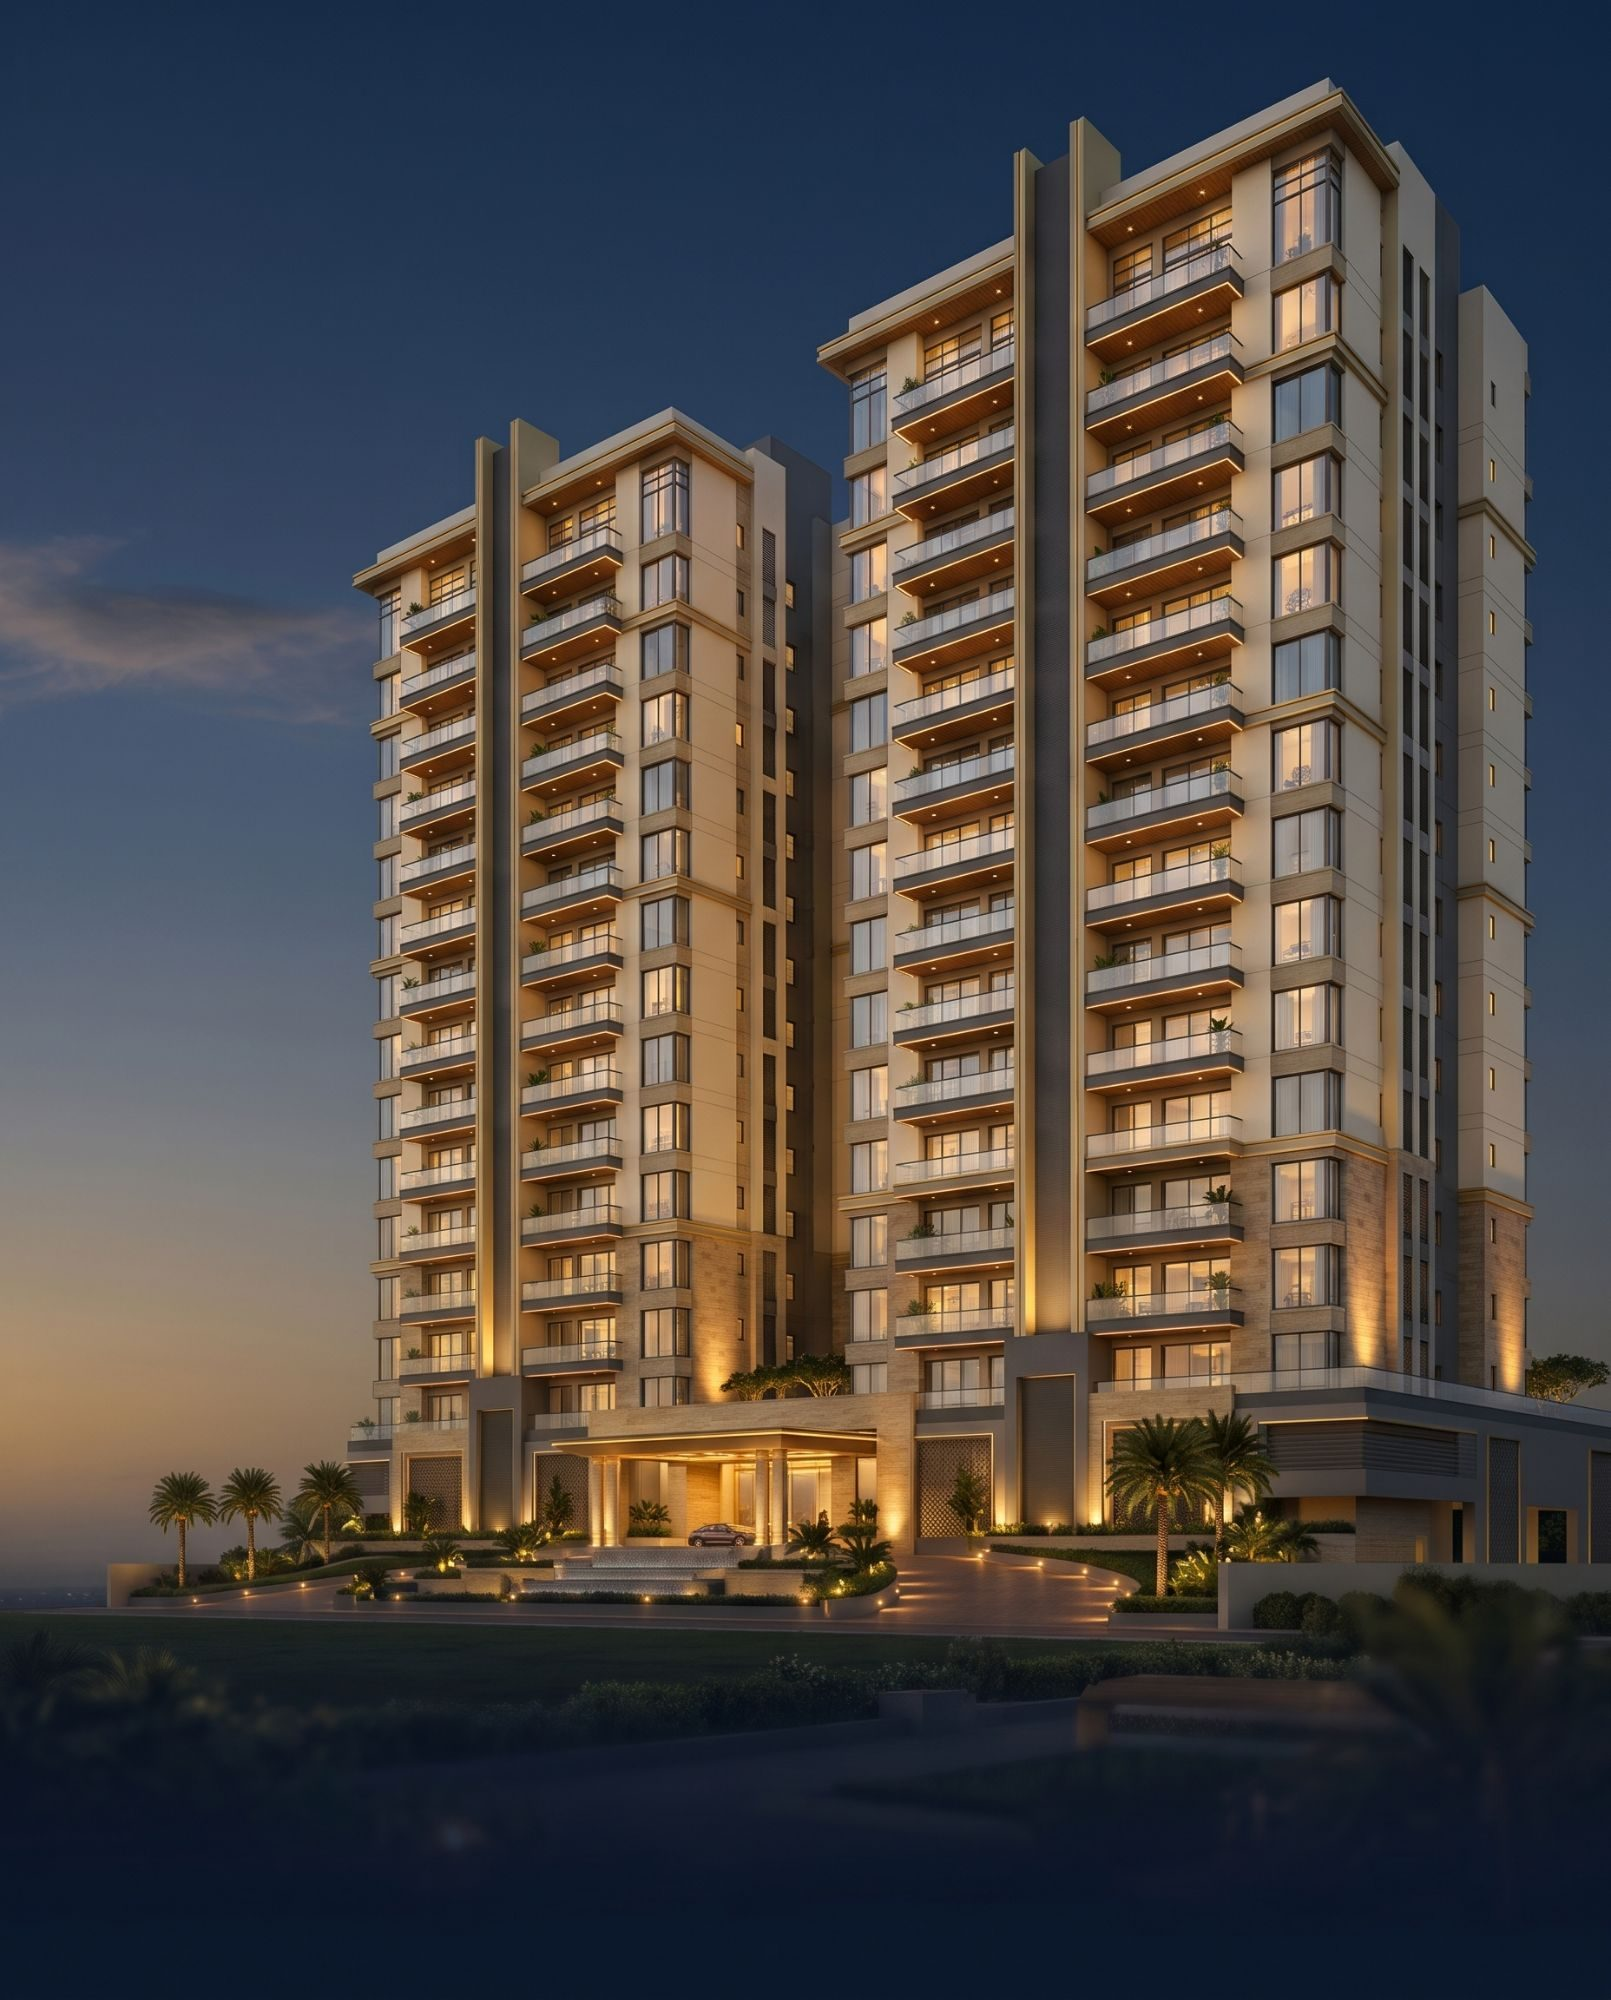
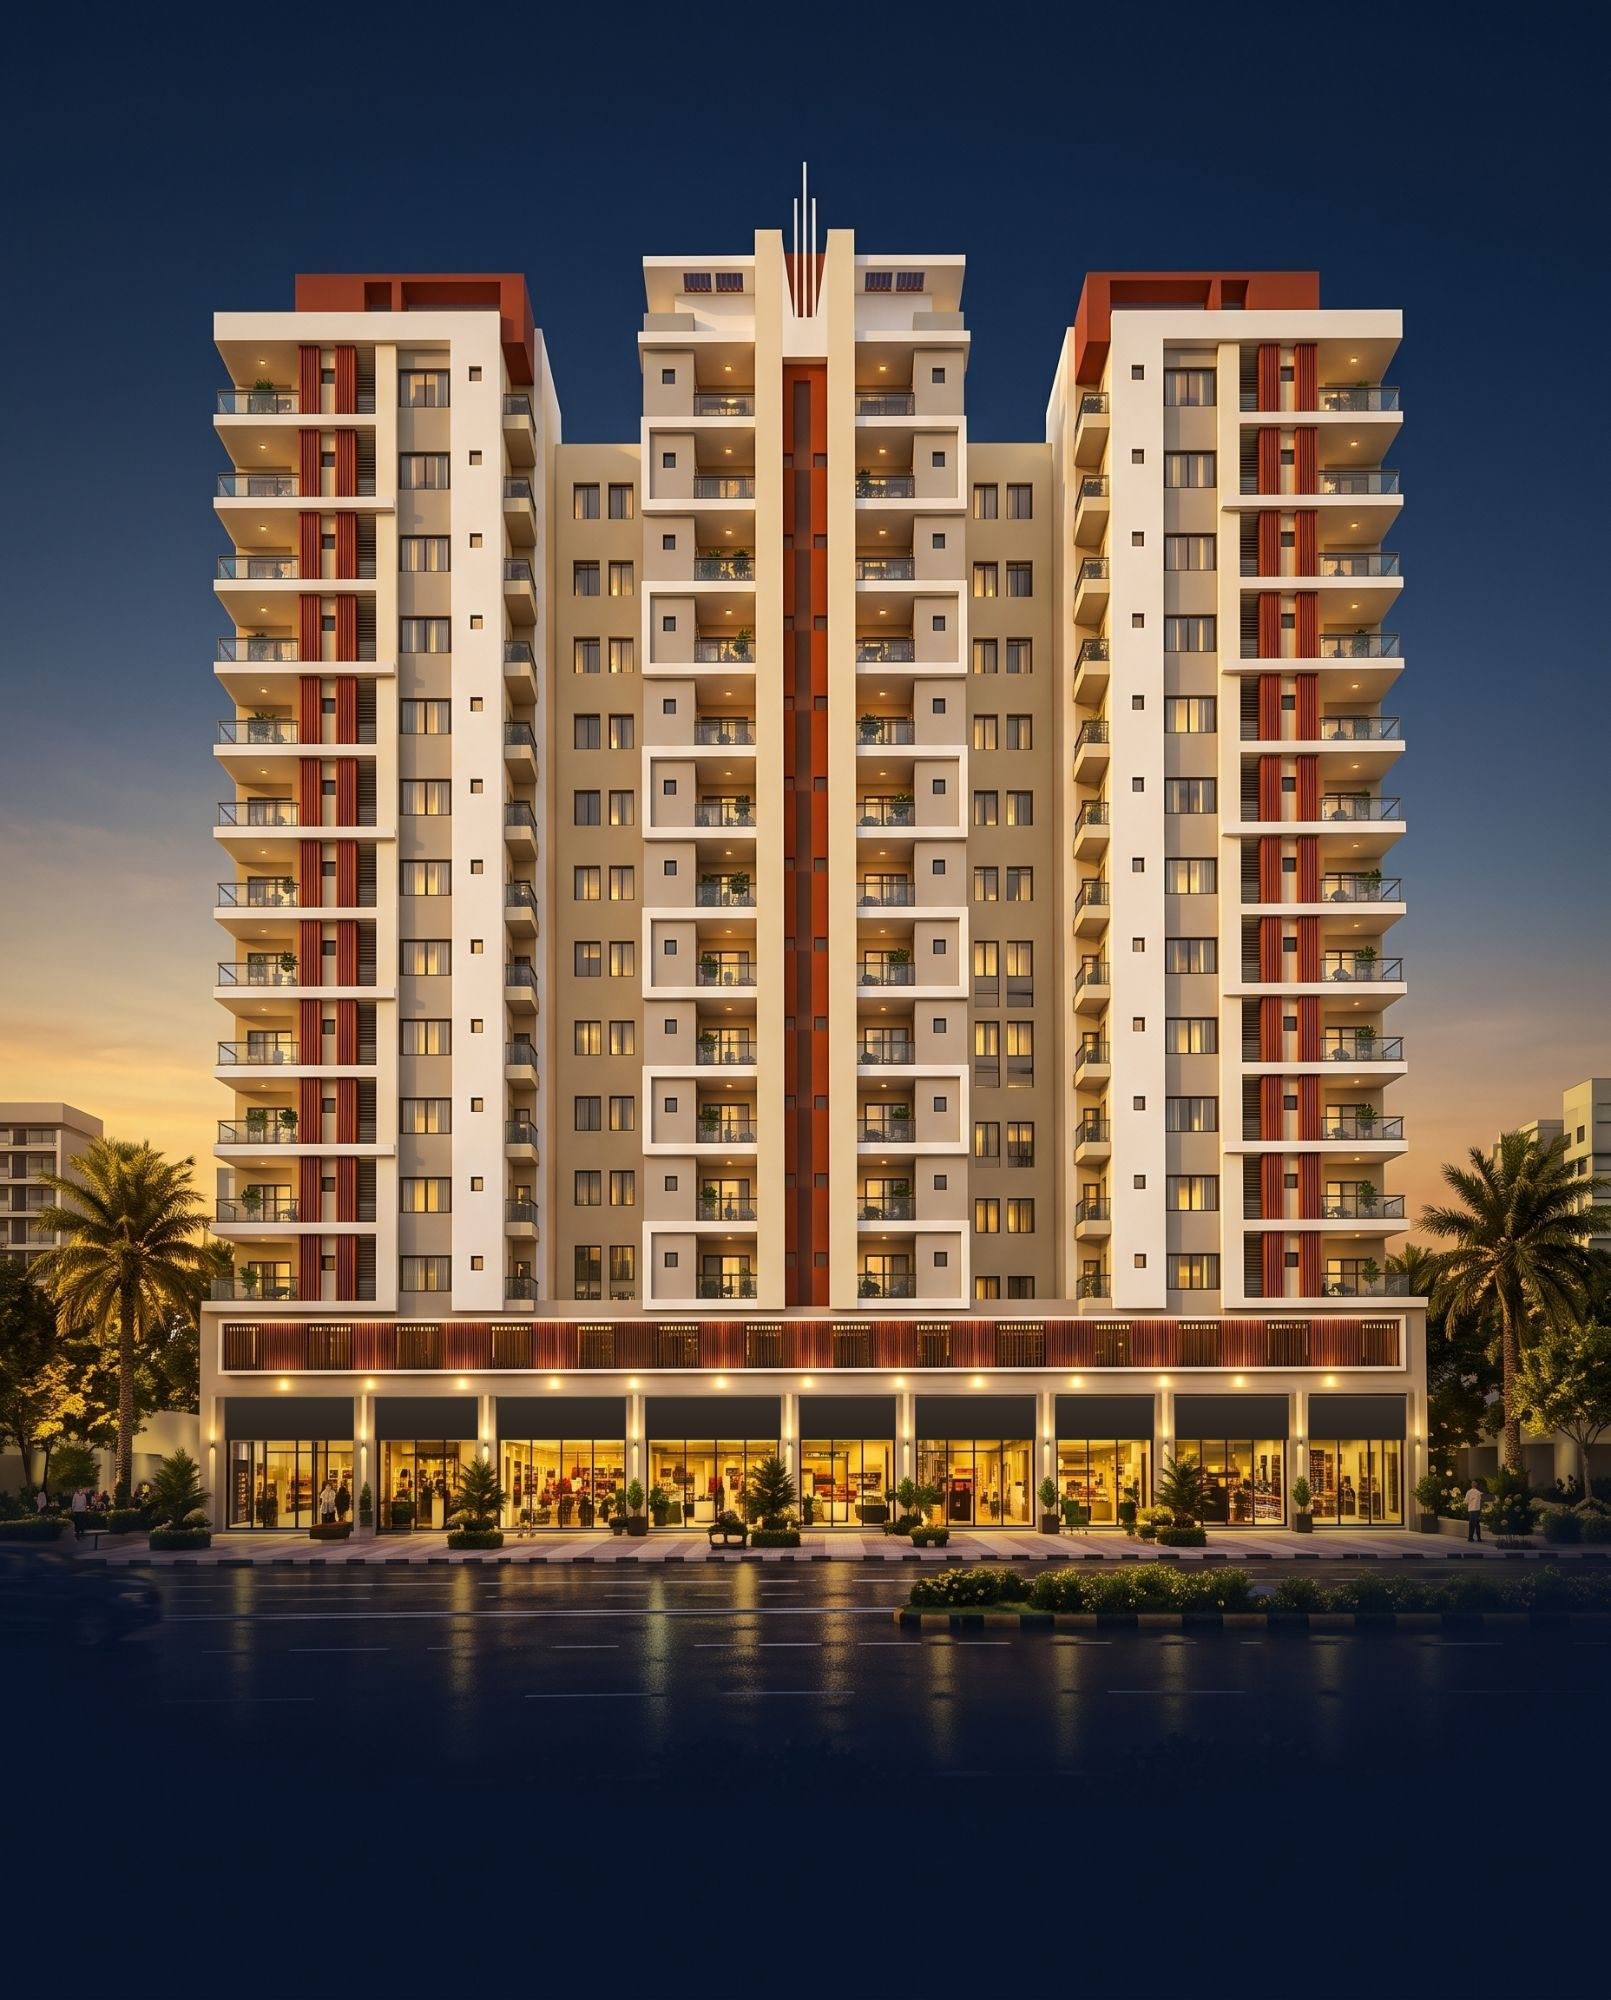
Use the original Twin Tower render in the hero
Shop signs blanked (other brands' names), desktop hero extended with matching sky,
mobile hero is the full original.

Claude-Session: https://claude.ai/code/session_011BbaxcEJPXUoU1CA7TgS4w

diff --git a/src/app/alistwintower/layout.tsx b/src/app/alistwintower/layout.tsx
@@ -11,7 +11,7 @@ export const metadata: Metadata = {
     siteName: TWIN_TOWER.name,
     title: `${TWIN_TOWER.name} | ${TWIN_TOWER.kind}`,
     description: TWIN_TOWER.summary,
-    images: [{ url: "/hero/twin-tower-hero.jpg", width: 2000, height: 1116, alt: "Ali's Twin Tower at dusk (artist impression)" }],
+    images: [{ url: "/hero/twin-tower-hero.jpg", width: 2000, height: 1125, alt: "Ali's Twin Tower at dusk (artist impression)" }],
   },
   twitter: { card: "summary_large_image", images: ["/hero/twin-tower-hero.jpg"] },
 };

diff --git a/src/app/layout.tsx b/src/app/layout.tsx
@@ -29,7 +29,7 @@ export const metadata: Metadata = {
     siteName: SITE.name,
     title: `${SITE.name} | ${SITE.tagline}`,
     description: SITE.description,
-    images: [{ url: "/hero/twin-tower-hero.jpg", width: 2000, height: 1116, alt: "Ali's Twin Tower at dusk (artist impression)" }],
+    images: [{ url: "/hero/twin-tower-hero.jpg", width: 2000, height: 1125, alt: "Ali's Twin Tower at dusk (artist impression)" }],
   },
   twitter: { card: "summary_large_image", images: ["/hero/twin-tower-hero.jpg"] },
 };

diff --git a/src/components/site.module.css b/src/components/site.module.css
@@ -2754,7 +2754,7 @@
   width: 100%;
   height: 100%;
   object-fit: cover;
-  object-position: 70% 40%;
+  object-position: 100% 40%;
 }
 /* Navy veil: strong behind the text on the left, light on the right so the building shows. */
 .tHeroBg::after {
